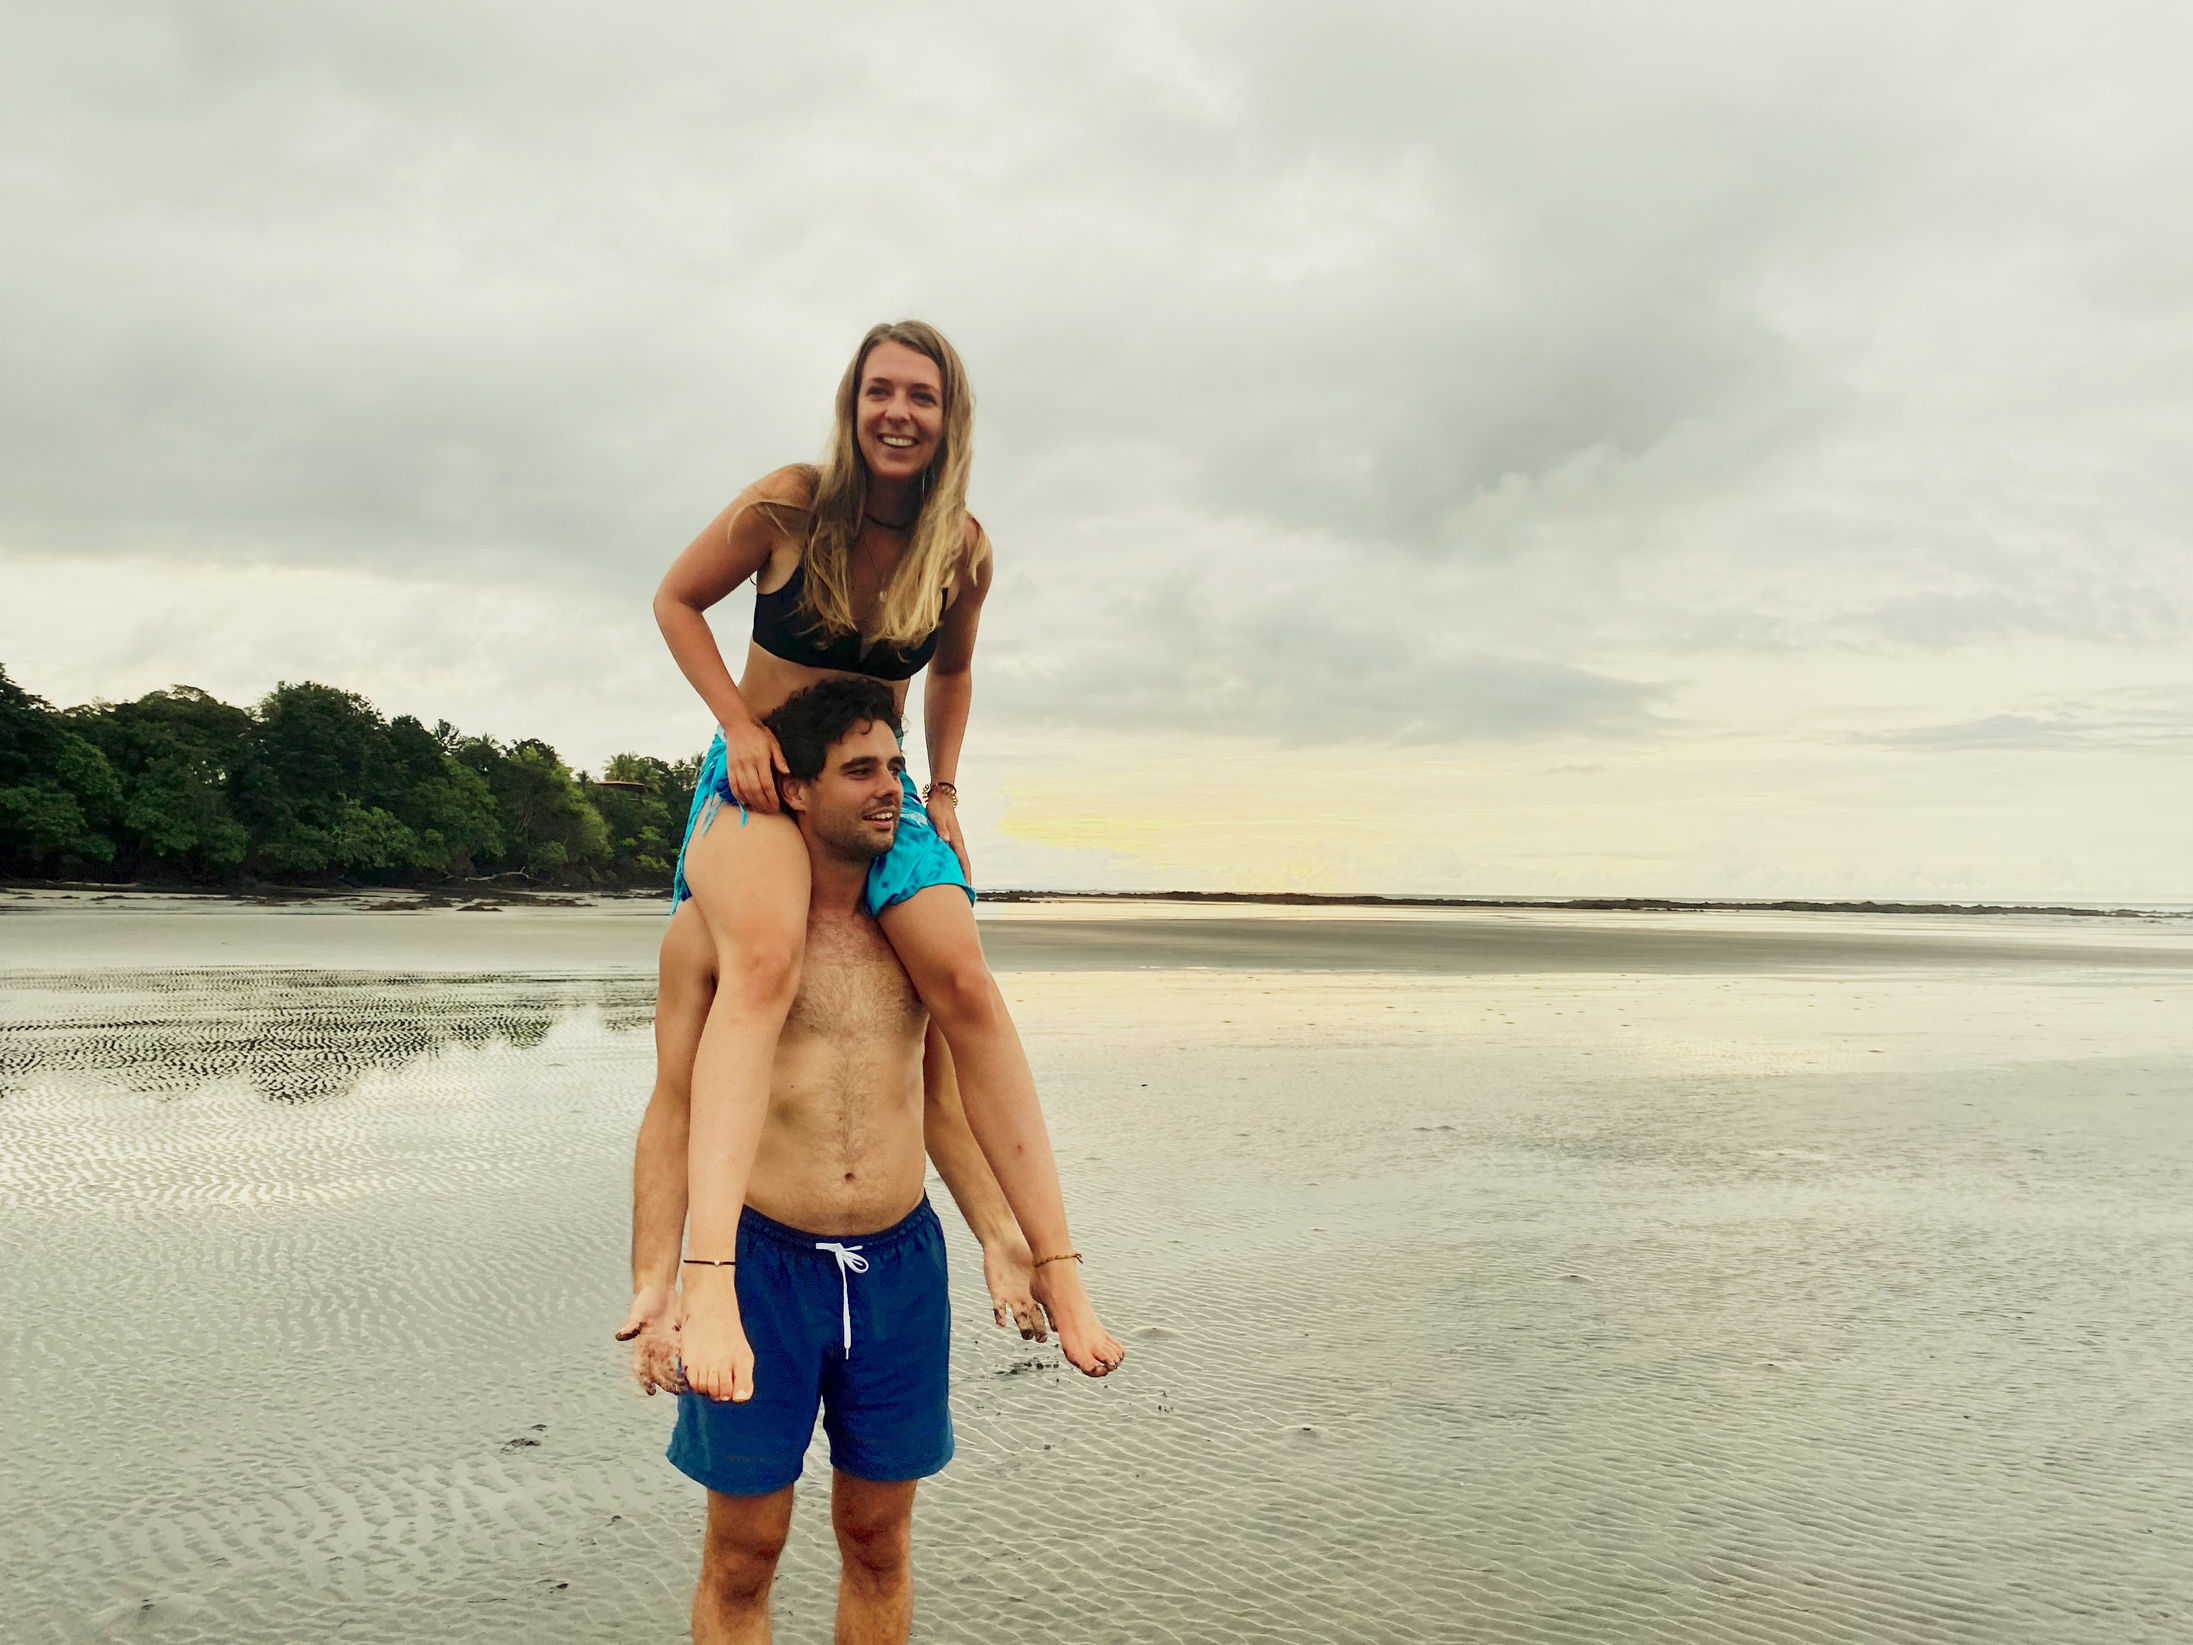
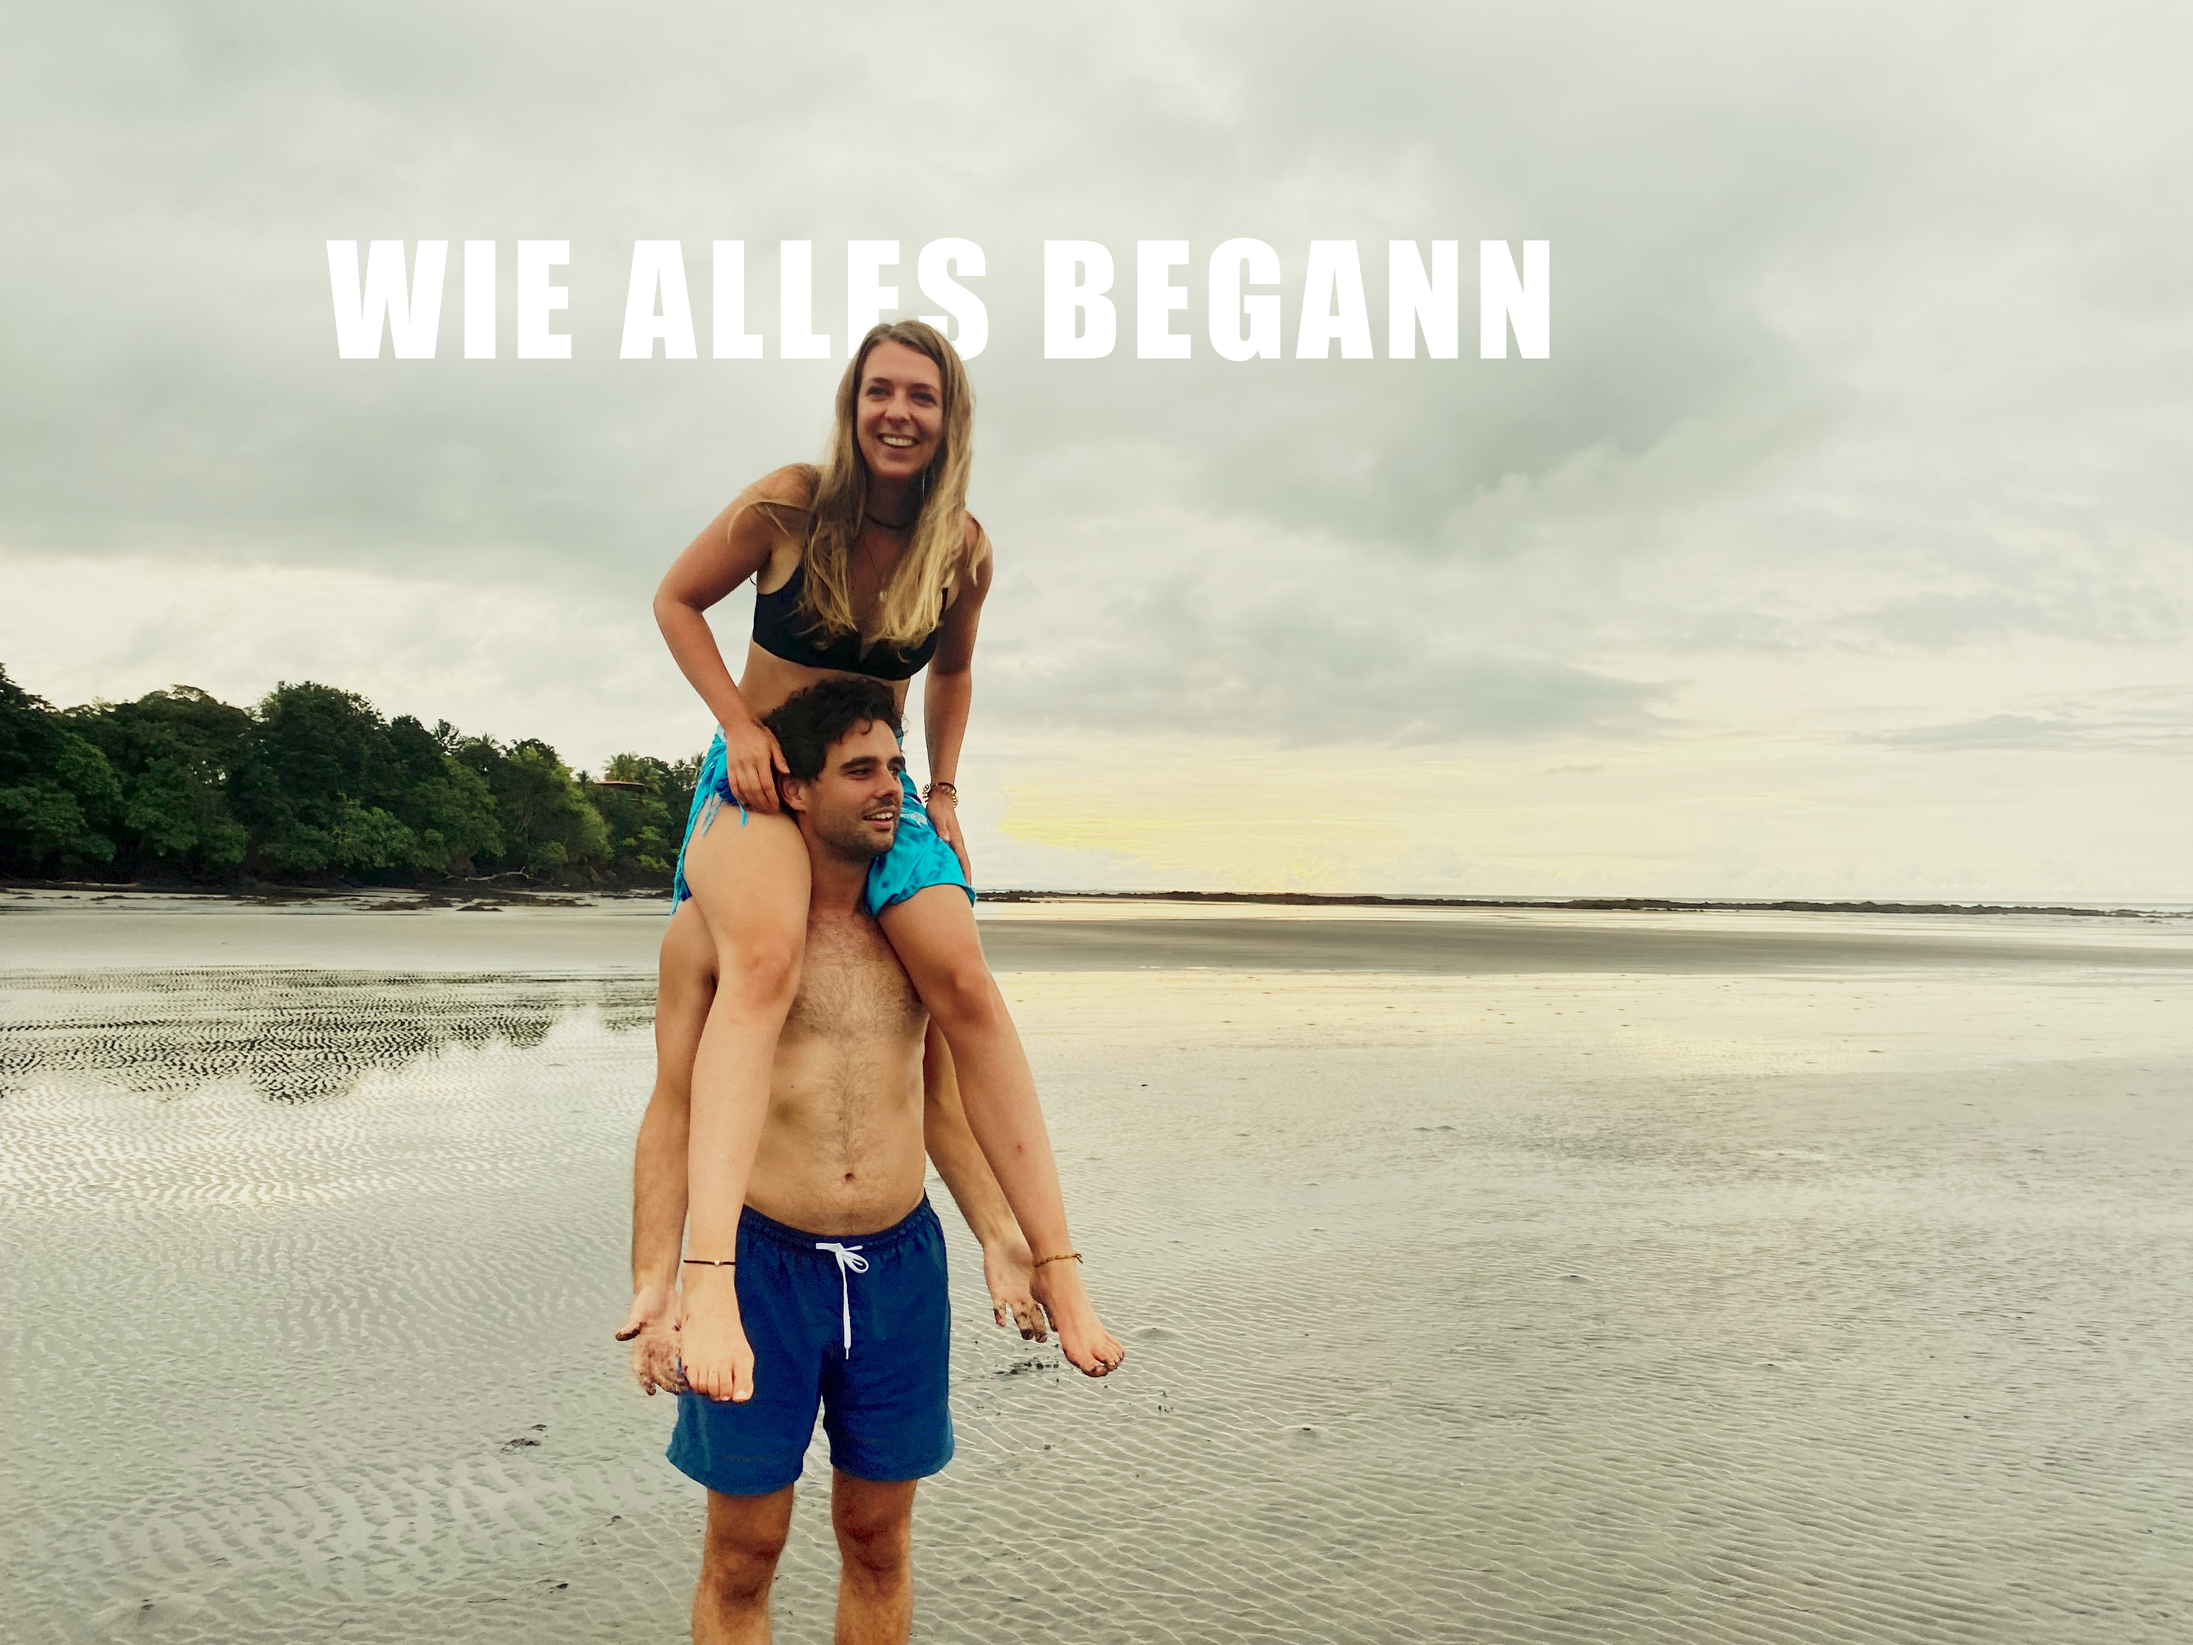
ueber uns adjusted

Changed region(s): [[0.125, 0.1243, 0.7188, 0.2176]]

diff --git a/js/script.js b/js/script.js
@@ -44,6 +44,7 @@ async function loadHTML(id, url) {
       if (url.includes('menu_bar.html')) initMenuBar?.();
       if (url.includes('ueber_uns.html')) initValuesToggle?.();
       if (url.includes('ueber_uns.html')) initUnsereWerte?.();
+      if (url.includes('ueber_uns.html')) initAboutHeroTextFit?.();
       if (url.includes('blog.html')) initBlog?.();
       if (url.includes('map.html')) initMap?.(id, { autoscale: true });
     }, 0);
@@ -330,6 +331,101 @@ function initUnsereWerte() {
     if (target) {
         observer.observe(target);
     }
+}
+
+function initAboutHeroTextFit() {
+  const heroes = document.querySelectorAll('.about-values__hero');
+  if (!heroes.length) return;
+
+  const MIN_FONT_SIZE = 10;
+  const EPSILON = 1;
+
+  const fitOneHero = (hero) => {
+    const media = hero.querySelector('.about-values__media');
+    const text = hero.querySelector('.about-values__text');
+    const body = hero.querySelector('.about-values__body');
+    if (!media || !text || !body) return;
+
+    hero.classList.remove('about-values__hero--fallback-grow');
+    text.style.height = '';
+    body.style.fontSize = '';
+    body.style.lineHeight = '';
+
+    const mediaHeight = media.getBoundingClientRect().height;
+    if (mediaHeight <= 0) return;
+
+    text.style.height = `${Math.round(mediaHeight)}px`;
+
+    const computedBodyFontSize = parseFloat(window.getComputedStyle(body).fontSize) || 16;
+    const maxFontSize = Math.max(MIN_FONT_SIZE, Math.round(computedBodyFontSize));
+
+    const fitsAt = (fontSizePx) => {
+      body.style.fontSize = `${fontSizePx}px`;
+      body.style.lineHeight = '1.5';
+      return body.scrollHeight <= body.clientHeight + EPSILON;
+    };
+
+    if (fitsAt(maxFontSize)) return;
+
+    let low = MIN_FONT_SIZE;
+    let high = maxFontSize;
+    let bestFit = -1;
+
+    while (low <= high) {
+      const mid = Math.floor((low + high) / 2);
+      if (fitsAt(mid)) {
+        bestFit = mid;
+        low = mid + 1;
+      } else {
+        high = mid - 1;
+      }
+    }
+
+    if (bestFit >= MIN_FONT_SIZE) {
+      fitsAt(bestFit);
+    } else {
+      fitsAt(MIN_FONT_SIZE);
+    }
+
+    const stillOverflowing = body.scrollHeight > body.clientHeight + EPSILON;
+    if (stillOverflowing) {
+      hero.classList.add('about-values__hero--fallback-grow');
+      text.style.height = 'auto';
+      body.style.fontSize = `${MIN_FONT_SIZE}px`;
+      body.style.lineHeight = '1.5';
+    }
+  };
+
+  const fitAllHeroes = () => {
+    heroes.forEach((hero) => fitOneHero(hero));
+  };
+
+  let resizeDebounce;
+  const onResize = () => {
+    clearTimeout(resizeDebounce);
+    resizeDebounce = setTimeout(fitAllHeroes, 120);
+  };
+
+  fitAllHeroes();
+  requestAnimationFrame(fitAllHeroes);
+
+  if (!window.__aboutHeroTextFitBound) {
+    window.addEventListener('resize', onResize);
+    window.addEventListener('orientationchange', fitAllHeroes);
+    window.__aboutHeroTextFitBound = true;
+  }
+
+  if (typeof ResizeObserver !== 'undefined') {
+    const observer = new ResizeObserver(() => {
+      fitAllHeroes();
+    });
+
+    heroes.forEach((hero) => {
+      const media = hero.querySelector('.about-values__media');
+      if (media) observer.observe(media);
+      observer.observe(hero);
+    });
+  }
 }
 //############################//
 //=== Funktionen für Blog ===//

diff --git a/css/styles.css b/css/styles.css
@@ -26,7 +26,7 @@ html, body {
   scroll-behavior: smooth;
   background-color: white;
   font-size: clamp(12px, 2vw, 18px);
-  /* overflow-x removed - was breaking position: sticky */
+  overflow-x: clip;
 }
 
 /* Prevent horizontal overflow without breaking sticky positioning */
@@ -669,7 +669,6 @@ body {
 .about-values__hero {
   display: flex;
   width: 100%;
-  min-height: clamp(420px, 62vh, 760px);
   height: auto;
   position: relative;
   overflow: visible;
@@ -698,14 +697,12 @@ body {
   width: 35%;
   min-width: 0;
   position: relative;
-  overflow: hidden;
+  line-height: 0;
 }
 
 .about-values__image {
   width: 100%;
-  height: 100%;
-  min-height: 100%;
-  object-fit: cover;
+  height: auto;
   display: block;
 }
 
@@ -713,14 +710,19 @@ body {
 .about-values__text {
   width: 65%;
   min-width: 0;
-  background-color: #969191;
+  background-color: #001d47;
   color: #f4f7ff;
-  padding: clamp(1.5rem, 2vh, 3.5rem) clamp(1.25rem, 3vw, 3rem) clamp(1.5rem, 2vh, 3.5rem) clamp(6.5rem, 5.5vw, 7.5rem);
+  padding: clamp(1.5rem, 2vw, 3.5rem) clamp(4rem, 5vw, 6rem);
   display: flex;
   flex-direction: column;
   justify-content: center;
-  gap: clamp(0.8rem, 1.5vw, 3.5rem);
+  gap: 0;
   position: relative;
+  position: absolute;
+  top: 0;
+  right: 0;
+  height: 100%;
+  overflow: hidden;
   z-index: 2;
 }
 
@@ -728,16 +730,29 @@ body {
   content: none;
 }
 
-.about-values__title {
-  font-size: clamp(1.6rem, 3vw, 2.6rem);
-  letter-spacing: 1px;
-  z-index: inherit;
-}
-
 .about-values__body {
+  flex: 1;
+  min-height: 0;
+  display: flex;
+  flex-direction: column;
+  justify-content: center;
+  overflow: hidden;
+  margin: 0;
   line-height: 1.7;
   font-size: clamp(0.95rem, 0.8rem + 0.4vw, 1.2rem);
   z-index: inherit;
+}
+
+.about-values__hero.about-values__hero--fallback-grow .about-values__text {
+  position: relative;
+  top: auto;
+  right: auto;
+  height: auto !important;
+  overflow: visible;
+}
+
+.about-values__hero.about-values__hero--fallback-grow .about-values__body {
+  overflow: visible;
 }
 
 .about-values__profiles {
@@ -798,7 +813,6 @@ body {
 @media (max-width: 900px) {
   .about-values__hero {
     flex-direction: column;
-    min-height: 0;
     height: auto;
   }
 
@@ -809,12 +823,16 @@ body {
   .about-values__media {
     flex: none;
     width: 100%;
-    min-height: clamp(180px, 30vh, 300px);
   }
 
   .about-values__text {
     flex: none;
     width: 100%;
+    position: relative;
+    top: auto;
+    right: auto;
+    height: auto;
+    overflow: hidden;
   }
 
   .about-values__text::after {

diff --git a/components/about/ueber_uns.html b/components/about/ueber_uns.html
@@ -4,7 +4,6 @@
       <img src="assets/images/profiles/ueber_uns_image.jpg" alt="Ueber uns" class="about-values__image">
     </div>
     <div class="about-values__text">
-      <h2 class="about-values__title">Wie alles begann</h2>
       <p class="about-values__body">
         Eigentlich begann alles ganz unspektakulär. Wir studierten beide Geografie an der Universität Zürich 
         und lernten uns dort kennen. Das bestandene Studium wollten wir mit Freunden auf einem Segelboot in 
